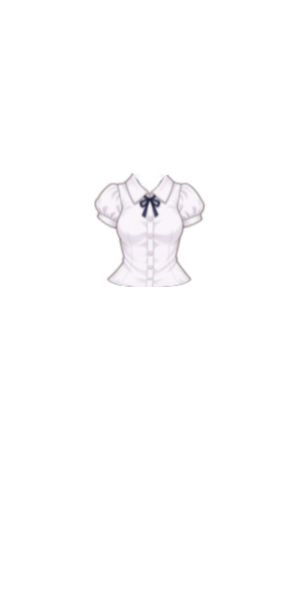
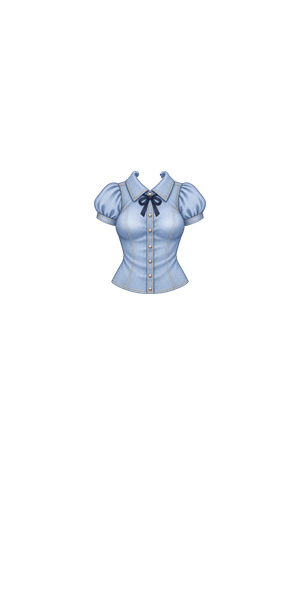
0

Changed region(s): [[0.3, 0.27, 0.69, 0.51]]

diff --git a/customization.py b/customization.py
@@ -31,8 +31,10 @@ ASSET_CHOICES = {
         ("Purple", ("eyes", "purple")),
     ],
     "tops": [
-        ("Top 1", ("Tops", "tops_1")),
-        ("Top 2", ("Tops", "tops_2")),
+        ("1", ("Tops", "tops_1")),
+        ("2", ("Tops", "tops_2")),
+        ("3", ("Tops", "tops_3")),
+        ("4", ("Tops", "tops_4")),
     ],
     "bottoms": [
         (f"Bottoms {number}", ("Bottoms", f"bottoms_{number}"))
@@ -65,7 +67,14 @@ HAIR_COLOR_X = 720
 HAIR_OPTIONS_Y = 300
 HAIR_OPTION_COLUMNS = 2
 REMOVE_ASSET = ("__remove__",)
-REMOVE_BUTTON = pygame.Rect(870, 240, 50, 28)
+
+
+def _remove_button(category):
+    """Place the remove button centered below this category's options."""
+    option_rects = [button for _label, _args, button in _asset_buttons(category)]
+    center_x = sum(button.centerx for button in option_rects) // len(option_rects)
+    y = max(button.bottom for button in option_rects) + ASSET_BUTTON_GAP_Y
+    return pygame.Rect(center_x - 25, y, 50, 28)
 
 
 def _asset_buttons(category):
@@ -136,9 +145,10 @@ def draw_customization(
             window.blit(text, text.get_rect(center=button.center))
     else:
         if selected_category in ("tops", "bottoms"):
-            pygame.draw.rect(window, PURPLE, REMOVE_BUTTON, border_radius=6)
+            remove_button = _remove_button(selected_category)
+            pygame.draw.rect(window, PURPLE, remove_button, border_radius=6)
             remove_text = font.render("X", True, WHITE)
-            window.blit(remove_text, remove_text.get_rect(center=REMOVE_BUTTON.center))
+            window.blit(remove_text, remove_text.get_rect(center=remove_button.center))
 
         # Draw asset buttons only for the currently selected category.
         selected_asset_args = (selected_asset_args or {}).get(selected_category)
@@ -178,7 +188,7 @@ def handle_customization_event(
 
     if (
         selected_category in ("tops", "bottoms")
-        and REMOVE_BUTTON.collidepoint(event.pos)
+        and _remove_button(selected_category).collidepoint(event.pos)
     ):
         return selected_category, REMOVE_ASSET, hair_style, hair_color
 

diff --git a/main.py b/main.py
@@ -1,5 +1,6 @@
 # Harley Coxon 
 import random
+from pathlib import Path
 import pygame 
 # import function from asset file 
 from assets import load_asset
@@ -16,14 +17,18 @@ pygame.init()
 
 # create a window(the surface that can be drawn on) and give it dimensions by calling .display.set_mode() 
 window = pygame.display.set_mode((1000, 800))
+pygame.display.set_caption("Dollz!")
 
 # Set color scheme variables using RGB values 
 PERIWINKLE = (161, 175, 241)
 PINK = (255, 179, 217)
 PURPLE = (180, 151, 231)
 
-# set the title of app using .set_caption 
-pygame.display.set_caption("Dollz!")
+# Show the logo before loading the character assets.
+logo = pygame.image.load(Path(__file__).resolve().parent / "logo.png").convert_alpha()
+window.fill(PINK)
+window.blit(logo, logo.get_rect(center=window.get_rect().center))
+pygame.display.flip()
 
 # create clock variable to limit the speed of every cycle of of running loop
 clock = pygame.time.Clock()
